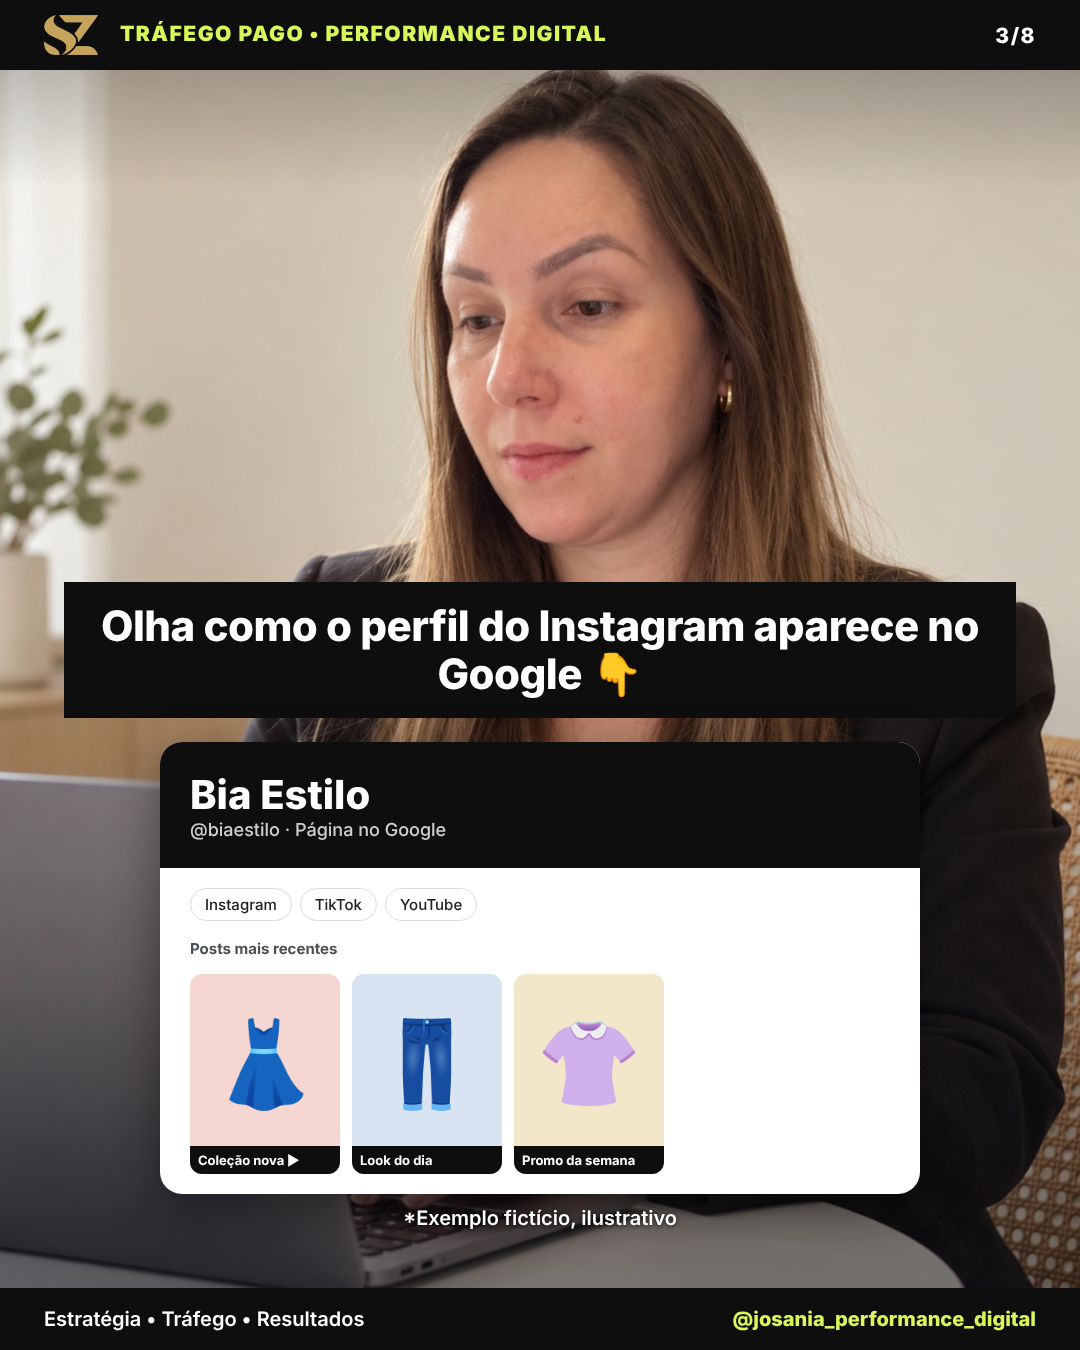
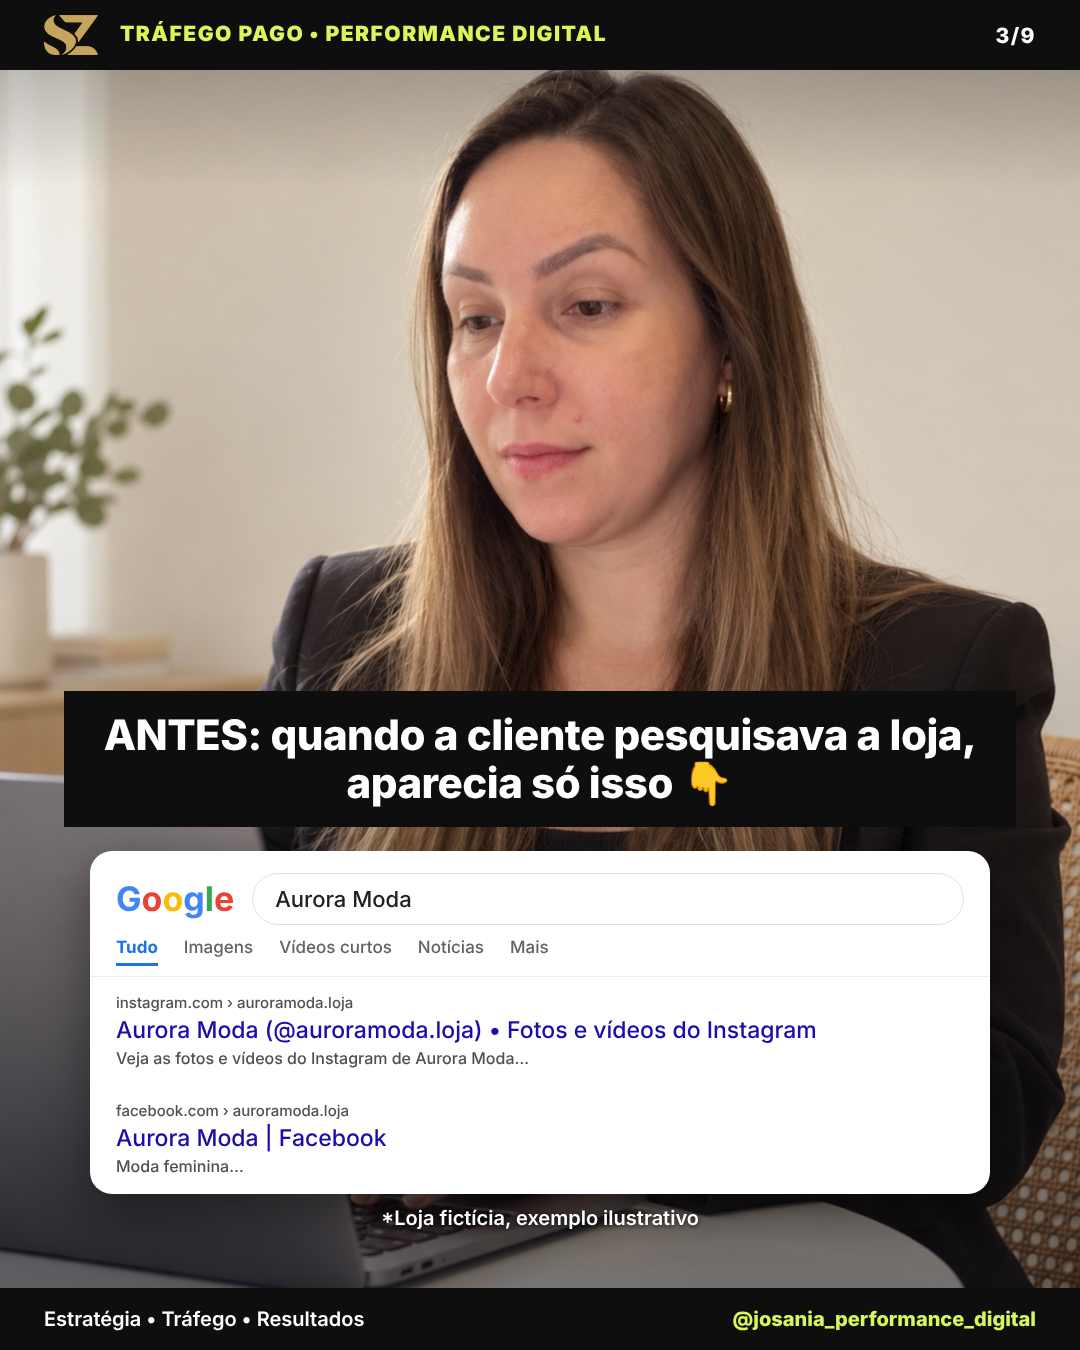
Volta o carrossel ao tema da amostra com o exemplo da loja de roupas
Claude-Session: https://claude.ai/code/session_01Cdq3fSAdowyFYcw5UgbxcJ

Changed region(s): [[0.0611, 0.4044, 0.9472, 0.9333]]

diff --git a/conteudos/carrossel-perfil-google/gerar.py b/conteudos/carrossel-perfil-google/gerar.py
@@ -102,38 +102,17 @@ def google(nome, corpo, largura=900):
 
 
 # Exemplos fictícios: uma criadora de moda (Perfil na Pesquisa) e uma loja (Perfil da Empresa)
-CRIADORA = {"nome": "Bia Estilo", "perfil": "@biaestilo"}
-LOJA = "Aurora Moda"
+# Exemplo fictício: loja de roupas com +10 mil seguidores no Instagram
+LOJA = {"nome": "Aurora Moda", "perfil": "@auroramoda.loja"}
 PECAS = [("#F6D6D0", "👗", "Coleção nova ▶"), ("#D9E4F2", "👖", "Look do dia"), ("#F3E7C9", "👚", "Promo da semana")]
-NOTA = '<div class="nota">*Exemplo fictício, ilustrativo</div>'
+NOTA = '<div class="nota">*Loja fictícia, exemplo ilustrativo</div>'
 
 
-def miniaturas(legendas=True):
+def miniaturas():
     return "".join(
-        f'<div class="thumb" style="background:{cor}"><span class="peca">{emoji}</span>{f"<i>{t}</i>" if legendas else ""}</div>'
+        f'<div class="thumb" style="background:{cor}"><span class="peca">{emoji}</span><i>{t}</i></div>'
         for cor, emoji, t in PECAS
     )
-
-
-def painel_loja(m, forte):
-    """Mockup do Perfil da Empresa (Google Meu Negócio) da loja, fraco ou caprichado."""
-    if forte:
-        nota, aval, info = "4,9", "(238 avaliações)", "Aberto · Fecha às 19:00"
-        botoes = ["Rotas", "Ligar", "WhatsApp", "Site", "Salvar"]
-        fotos = f'<div class="posts">{miniaturas(False)}</div>'
-        extra = '<div class="src" style="margin-top:14px;font-weight:700">Novidades da loja</div><div class="desc">👗 Coleção de verão chegou! Peças a partir de R$ 59…</div>'
-        estrelas = "★★★★★"
-    else:
-        nota, aval, info = "3,8", "(6 avaliações)", "Horário não informado"
-        botoes = ["Rotas", "Salvar"]
-        fotos = '<div class="thumb" style="background:#e9e9e9;width:470px;height:120px"><span class="peca" style="top:22px;font-size:52px">🏬</span></div>'
-        extra = '<div class="desc" style="margin-top:12px;color:#b3261e;font-size:18px">Sem WhatsApp · Sem horário · Sem fotos</div>'
-        estrelas = "★★★★☆"
-    chips = "".join(f'<span class="chip">{b}</span>' for b in botoes)
-    corpo = f"""<div class="res"><div style="font:800 30px Inter;color:#202124">{LOJA}</div>
-<div class="desc" style="font-size:18px"><b style="color:#202124">{nota}</b> <span style="color:#fbbc04">{estrelas}</span> {aval} · Loja de roupas femininas</div>
-<div class="desc" style="font-size:17px;margin:4px 0 12px">{info}</div>{chips}<div style="margin-top:14px">{fotos}</div>{extra}</div>"""
-    return google(LOJA, corpo, 820)
 
 
 def logo_google(classe="glogo gbig"):
@@ -144,35 +123,34 @@ def busca(texto):
     return f'<div class="gcard">{logo_google()}<div class="gsearch">🔍&nbsp; {texto}<b>|</b></div></div>'
 
 
-def mapa():
-    """Mapa ilustrado com o pin vermelho do Google Maps em cima da loja."""
-    ruas = "".join(f'<line x1="{x}" y1="0" x2="{x + 60}" y2="300" stroke="#fff" stroke-width="16"/>' for x in (90, 300, 520, 720))
-    ruas += "".join(f'<line x1="0" y1="{y}" x2="840" y2="{y - 30}" stroke="#fff" stroke-width="16"/>' for y in (80, 190, 280))
-    return f"""<div class="mapa"><svg width="840" height="300" viewBox="0 0 840 300" xmlns="http://www.w3.org/2000/svg">
-<rect width="840" height="300" fill="#e8eef2"/><rect x="560" y="200" width="160" height="90" rx="10" fill="#cfe8c6"/>
-<path d="M0 240 C200 210 260 300 420 270" stroke="#aecbfa" stroke-width="26" fill="none"/>{ruas}
-<g transform="translate(420 120)"><ellipse cx="0" cy="62" rx="22" ry="7" fill="rgba(0,0,0,.25)"/>
-<path d="M0 60 C-10 30 -46 10 -46 -20 A46 46 0 1 1 46 -20 C46 10 10 30 0 60Z" fill="#EA4335"/><circle cx="0" cy="-20" r="17" fill="#A50E0E"/></g>
-<g transform="translate(476 70)"><rect width="340" height="74" rx="14" fill="#fff" stroke="#dadce0"/>
-<text x="20" y="32" font-family="Inter" font-weight="800" font-size="24" fill="#202124">Aurora Moda</text>
-<text x="20" y="60" font-family="Inter" font-size="19" fill="#5f6368">4,9 <tspan fill="#fbbc04">★★★★★</tspan> · Loja de roupas</text></g></svg></div>"""
-
-
 def slides(m):
-    nome, perfil = CRIADORA["nome"], CRIADORA["perfil"]
+    nome, perfil = LOJA["nome"], LOJA["perfil"]
+    usuario = perfil.lstrip("@")
+    antes = google(nome, f"""
+<div class="res"><div class="src">instagram.com › {usuario}</div><div class="tit">{nome} (@{usuario}) • Fotos e vídeos do Instagram</div>
+<div class="desc">Veja as fotos e vídeos do Instagram de {nome}…</div></div>
+<div class="res"><div class="src">facebook.com › {usuario}</div><div class="tit">{nome} | Facebook</div><div class="desc">Moda feminina…</div></div>""")
+    depois = google(nome, f"""
+<div class="res"><div class="src">Instagram · {perfil}</div><div class="tit">{nome} | Moda feminina</div>
+<div class="desc">Peças novas toda semana, looks e promoções…</div>
+<div class="src" style="margin-top:14px;font-weight:700">Posts mais recentes</div>
+<div class="posts circ">{miniaturas()}</div></div>""")
     perfil_pg = f"""<div class="mock" style="width:760px">
-<div style="background:{m['cor_fundo']};color:#fff;padding:28px 30px"><div style="font:800 40px Inter">{nome}</div><div style="font-size:18px;opacity:.8">{perfil} · Página no Google</div></div>
-<div style="padding:20px 30px"><span class="chip">Instagram</span><span class="chip">TikTok</span><span class="chip">YouTube</span>
+<div style="background:{m['cor_fundo']};color:#fff;padding:28px 30px"><div style="font:800 40px Inter">{nome}</div><div style="font-size:18px;opacity:.8">{perfil} · Perfil no Google</div></div>
+<div style="padding:20px 30px"><span class="chip">+ Seguir no Google</span><span class="chip">Instagram</span><span class="chip">TikTok</span><span class="chip">YouTube</span>
 <div class="src" style="margin:18px 0 6px;font-weight:700">Posts mais recentes</div><div class="posts">{miniaturas()}</div></div></div>"""
+    passos = [("📸", "Entre com o Instagram da loja"), ("🔗", "Conecte as outras redes (se quiser)"), ("✅", "Conclua o cadastro"), ("✏", "Personalize as informações")]
+    grade = "".join(f'<div class="tile"><span>{e}</span>{i + 2}) {t}</div>' for i, (e, t) in enumerate(passos))
     return [
-        f'{busca("perfil do Instagram no Google")}<div class="box ouro sm">🚨 Novidade no Google!</div><div class="box escuro">Se o perfil do seu Instagram tem <span class="hl">mais de 10 mil seguidores</span>, ele agora pode aparecer no Google!</div>',
-        f'{busca("loja de roupas perto de mim")}<div class="box branco big" style="font-size:62px">Mas e quem tem <span class="hla">LOJA?</span>&nbsp;🤔</div><div class="box lima sm">Curte ❤ e me segue<br>antes que eu te explique 👇</div>',
-        f'<div class="box escuro sm">Olha como o perfil do Instagram aparece no Google 👇</div>{perfil_pg}{NOTA}',
-        f'{mapa()}<div class="box ouro sm">E a sua loja? 🛍</div><div class="box escuro">Ela aparece pelo <span class="hl">Google Meu Negócio</span> 📍</div><div class="gap"></div><div class="box branco sm">É aquela ficha com fotos, endereço, horário e avaliações</div>',
-        f'<div class="box escuro sm">Ficha abandonada 😬<br><span class="hl">a cliente desiste e vai na concorrente</span></div>{painel_loja(m, False)}{NOTA}',
-        f'<div class="box escuro sm">Ficha caprichada 🤩<br><span class="hl">a cliente confia e já chama no WhatsApp</span></div>{painel_loja(m, True)}{NOTA}',
-        '<div class="box escuro sm">Como deixar a sua assim:</div><div class="grade"><div class="tile"><span>📸</span>Fotos bonitas das roupas</div><div class="tile"><span>🕒</span>Horário e WhatsApp certos</div><div class="tile"><span>⭐</span>Pedir avaliação pras clientes</div><div class="tile"><span>📢</span>Postar novidades toda semana</div></div>',
-        f'<img class="selo" src="{m["sz_uri"]}"><div class="box branco">Quer aprender a deixar a ficha da sua loja assim?</div><div class="box escuro sm">Me segue que eu te ensino<br>o passo a passo 👣</div><div class="box lima" style="font-size:52px">{m["perfil"]}</div>',
+        f'{busca(nome)}<div class="box ouro sm">🚨 Novidade no Google!</div><div class="box escuro">Se o Instagram da sua loja tem <span class="hl">mais de 10 mil seguidores</span>, ele agora pode aparecer no Google!</div>',
+        f'<div class="gcard" style="width:auto">{logo_google()}</div><div class="box branco big" style="font-size:62px">E o que muda na prática? 🤔</div><div class="box lima sm">Curte ❤ e me segue<br>antes que eu te explique 👇</div>',
+        f'<div class="box escuro sm">ANTES: quando a cliente pesquisava a loja, aparecia só isso 👇</div>{antes}{NOTA}',
+        f'<div class="box escuro sm">DEPOIS: com o perfil no Google, aparecem os <span class="hl">posts do Instagram da loja</span> 👇</div><div class="box lima" style="font-size:34px">✅ Muito mais completo, com links direto pro Instagram!</div>{depois}{NOTA}',
+        f'<div class="box branco sm">E clicando em “ver perfil”, a cliente vê <span class="hla">todas as redes da loja</span> num lugar só 🔥</div>{perfil_pg}{NOTA}',
+        f'{busca("creators.google/pt-BR/profile")}<div class="box escuro sm">Pra criar é simples:</div><div class="box branco sm">1) Acesse o site do Google para Criadores</div><div class="box ouro xs">Precisa ter mais de 10 mil seguidores e 18 anos ou mais</div>',
+        f'<div class="box escuro sm">Depois é só seguir os passos:</div><div class="grade">{grade}</div>',
+        f'{busca(nome)}<div class="box lima big">Pronto! 🎉</div><div class="box escuro sm">Agora é só pesquisar o nome da sua loja no Google e ver como ficou</div>',
+        f'<img class="selo" src="{m["sz_uri"]}"><div class="box branco">Quer mais dicas como essa pra sua loja?</div><div class="box escuro sm">Me segue que eu te ensino<br>o passo a passo 👣</div><div class="box lima" style="font-size:52px">{m["perfil"]}</div>',
     ]
 
 
